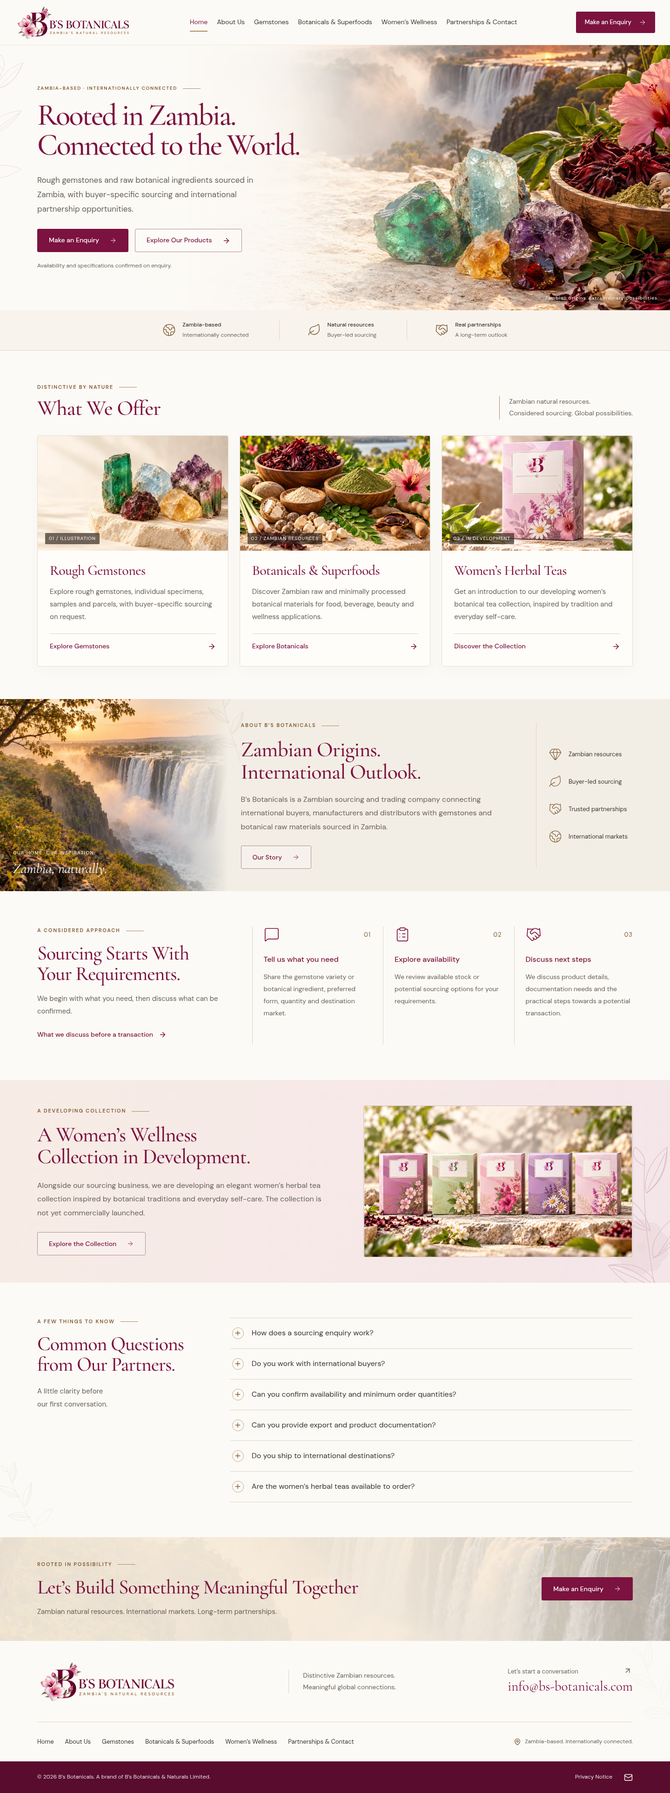
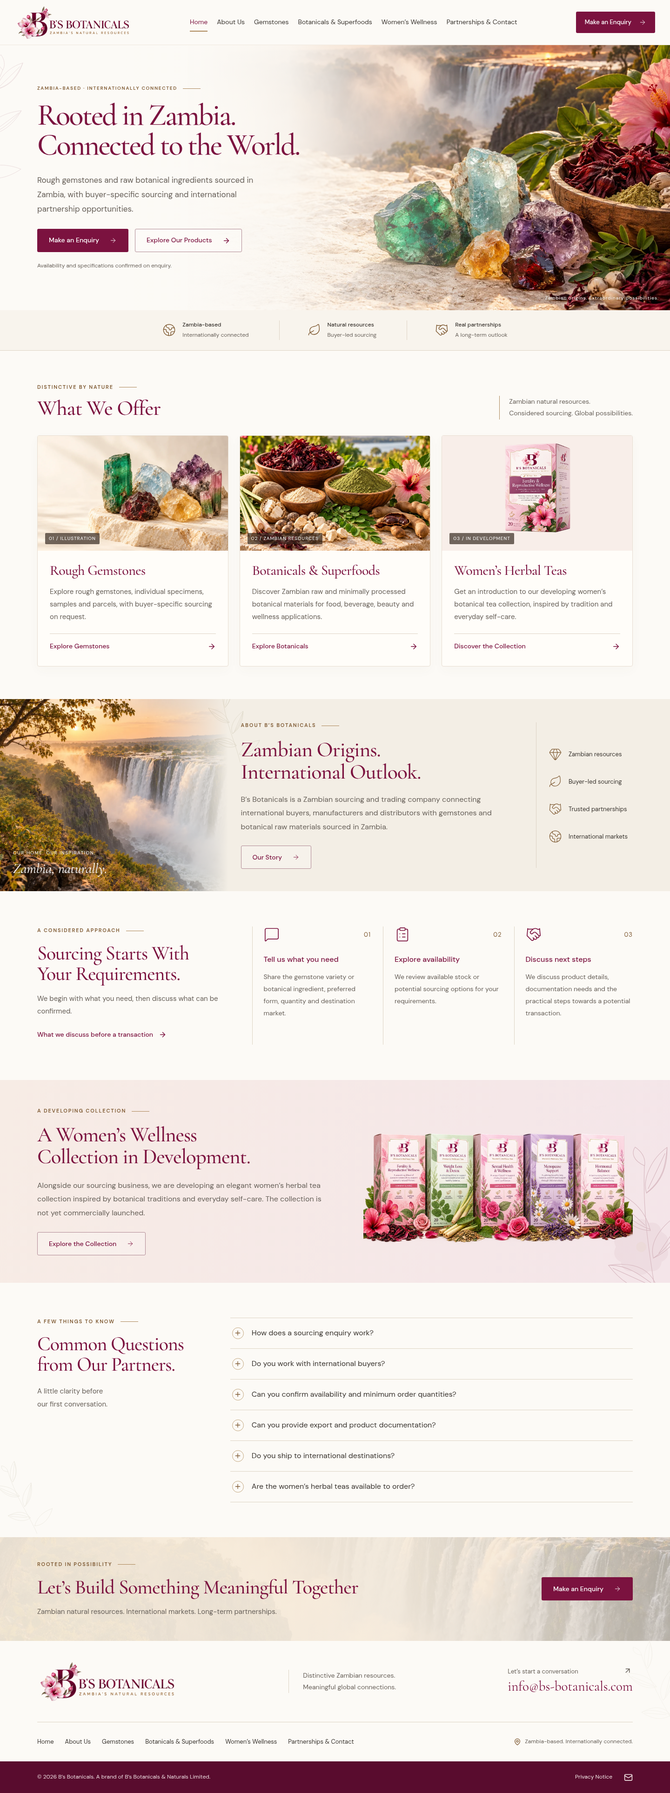
Use supplied labelled tea boxes in individual wellness gallery

Changed region(s): [[0.5312, 0.5914, 0.9688, 0.716], [0.6562, 0.2179, 0.9688, 0.3113]]

diff --git a/src/styles.css b/src/styles.css
@@ -160,7 +160,7 @@ section[id], div[id="enquiry-form"] { scroll-margin-top: 0; }
 .wellness-teaser-art > svg { color: var(--gold-text); height: 46px; width: 46px; margin-bottom: 22px; }
 .wellness-teaser-art > p { font-family: var(--serif); font-size: 33px; line-height: 1.15; color: var(--wine); margin-bottom: 22px; }
 .wellness-teaser-art > img { object-fit: contain; max-height: 310px; }
-.wellness-teaser-art.has-photo { padding: 0; min-height: 0; aspect-ratio: 1672 / 941; border-radius: 4px; overflow: hidden; background: #f4eee5; }
+.wellness-teaser-art.has-photo { padding: 0; min-height: 0; aspect-ratio: 1672 / 941; border: 0; border-radius: 0; background: transparent; }
 .wellness-teaser-art.has-photo > img { width: 100%; height: 100%; max-height: none; object-fit: contain; }
 .status-pill { display: inline-block; border: 1px solid #bf96a5; border-radius: 24px; color: var(--wine); font-size: 11px; letter-spacing: .5px; padding: 6px 13px; line-height: 1.5; }
 
@@ -304,22 +304,17 @@ section[id], div[id="enquiry-form"] { scroll-margin-top: 0; }
 .wellness-story p { font-size: 16px; line-height: 1.9; margin-bottom: 22px; }
 .wellness-story .eyebrow { font-size: 10px; }
 .planned-collection { background: #f8f0eb; padding-block: 65px; }
-.concept-grid { display: grid; grid-template-columns: repeat(5, minmax(0, 1fr)); gap: 22px; }
-.concept-card { text-align: center; min-width: 0; }
-.concept-art { height: 225px; position: relative; overflow: hidden; display: grid; place-items: center; border: 1px solid color-mix(in srgb, var(--concept-color) 40%, transparent); background: color-mix(in srgb, var(--concept-color) 13%, #fcfaf6); border-radius: 3px; }
-.concept-art::before { content: ''; position: absolute; inset: 10px; border: 1px solid color-mix(in srgb, var(--concept-color) 25%, transparent); }
-.concept-art > svg { position: absolute; width: 125px; height: 160px; bottom: -10px; right: -10px; color: var(--concept-color); transform: rotate(-15deg); }
-.concept-number { position: absolute; left: 22px; top: 20px; font-size: 13px; color: #775548; letter-spacing: 1px; }
-.concept-watermark { position: absolute; top: 38px; font-family: var(--serif); font-size: 85px; color: var(--wine); opacity: .7; }
-.concept-card h3 { font-family: var(--serif); font-size: 25px; line-height: 1.1; min-height: 55px; margin: 21px 0 10px; letter-spacing: -.02em; }
+.tea-collection { display: flex; flex-wrap: wrap; justify-content: center; align-items: flex-start; gap: 48px 28px; }
+.tea-product { flex: 0 1 calc((100% - 56px) / 3); min-width: 0; margin: 0; text-align: center; }
+.tea-product-image { display: block; border-radius: 3px; }
+.tea-product-image img { display: block; width: 100%; height: auto; aspect-ratio: 1122 / 1402; object-fit: contain; }
+.tea-product h3 { font-family: var(--serif); font-size: 27px; line-height: 1.15; margin: 20px 0 12px; }
+.tea-package-image { background: #f8eee9; }
+.tea-package-image img { object-fit: contain; padding: 10px 18px 33px; }
 .development-tag { display: inline-block; font-size: 12px; line-height: 1.6; color: #70564f; background: #fcfaf6a6; border: 1px solid #dfd0c9; border-radius: 20px; padding: 4px 11px; }
 .development-notice { max-width: 900px; text-align: center; margin: 42px auto 0; border-top: 1px solid var(--line); padding-top: 28px; }
 .development-notice > span { color: var(--wine); font-size: 12px; font-weight: 500; letter-spacing: 1px; text-transform: uppercase; }
 .development-notice p { font-size: 14px; line-height: 1.9; margin-top: 14px; }
-.approved-collection { margin: 0 auto 40px; max-width: 1000px; }
-.approved-collection img { width: 100%; height: auto; object-fit: contain; border-radius: 4px; }
-.approved-collection a { display: block; }
-.approved-collection figcaption { text-align: center; font-size: 14px; margin-top: 16px; color: var(--muted); }
 .wellness-enquiry { max-width: 800px; padding-block: 65px; text-align: center; }
 .wellness-enquiry > svg { color: var(--gold-text); height: 42px; width: 42px; margin-bottom: 20px; }
 .wellness-enquiry .eyebrow { justify-content: center; }
@@ -449,8 +444,6 @@ section[id], div[id="enquiry-form"] { scroll-margin-top: 0; }
   .product-card h3 { font-size: 32px; }
   .two-column-inner { gap: 40px; }
   .two-column-inner > div + div { padding-left: 32px; }
-  .concept-grid { grid-template-columns: repeat(3, minmax(0, 1fr)); gap: 30px; }
-  .concept-card h3 { min-height: 0; }
   .contact-main { grid-template-columns: 34% 66%; gap: 35px; padding-right: 35px; }
   .enquiry-panel { padding: 30px; }
 }
@@ -496,9 +489,6 @@ section[id], div[id="enquiry-form"] { scroll-margin-top: 0; }
   .two-column-inner { gap: 30px; }
   .two-column-inner > div + div { padding-left: 25px; }
   .wellness-story { grid-template-columns: 1fr; gap: 28px; }
-  .concept-grid { gap: 25px; }
-  .concept-art { height: 210px; }
-  .concept-card h3 { font-size: 26px; }
   .contact-main { grid-template-columns: 1fr; gap: 35px; padding-right: 0; }
   .enquiry-panel { grid-row: 1; padding: 35px; }
   .contact-aside > p:not(.eyebrow) { max-width: 650px; }
@@ -695,13 +685,6 @@ section[id], div[id="enquiry-form"] { scroll-margin-top: 0; }
   .wellness-story .eyebrow { font-size: 10px; letter-spacing: 1px; }
   .wellness-story p { font-size: 16px; line-height: 1.95; }
   .planned-collection { padding-block: 42px; }
-  .concept-grid { grid-template-columns: repeat(2, minmax(0, 1fr)); gap: 28px 18px; }
-  .concept-card:last-child { grid-column: 1/-1; width: calc(50% - 9px); justify-self: center; }
-  .concept-art { height: 180px; }
-  .concept-art > svg { width: 100px; height: 130px; bottom: -5px; }
-  .concept-number { left: 19px; top: 18px; font-size: 12px; }
-  .concept-watermark { font-size: 74px; top: 30px; }
-  .concept-card h3 { font-size: 26px; min-height: 58px; margin-block: 19px 8px; }
   .development-tag { font-size: 11px; padding: 4px 9px; }
   .development-notice { margin-top: 32px; padding-top: 25px; text-align: left; }
   .development-notice > span { font-size: 11px; letter-spacing: .7px; }
@@ -769,13 +752,18 @@ section[id], div[id="enquiry-form"] { scroll-margin-top: 0; }
   .hero-copy .eyebrow { font-size: 8px; }
   .category-copy, .product-card-copy { padding: 21px; }
   .enquiry-panel { padding-inline: 17px; }
-  .concept-grid { gap: 25px 14px; }
-  .concept-art { height: 155px; }
-  .concept-card h3 { font-size: 24px; }
   .development-tag { font-size: 10px; padding-inline: 7px; }
-  .concept-card:last-child { width: calc(50% - 7px); }
 }
 @media (prefers-reduced-motion: reduce) {
   :root { scroll-behavior: auto; }
   *, *::before, *::after { transition: none !important; animation: none !important; scroll-behavior: auto !important; }
+}
+
+@media (max-width: 1024px) {
+  .tea-product { flex-basis: calc((100% - 28px) / 2); }
+}
+@media (max-width: 640px) {
+  .tea-collection { gap: 40px; }
+  .tea-product { flex-basis: 100%; max-width: 420px; }
+  .tea-product h3 { font-size: 28px; }
 }

diff --git a/src/pages/Pages.jsx b/src/pages/Pages.jsx
@@ -1,9 +1,8 @@
 import { useEffect, useState } from 'react';
 import { Link } from 'react-router-dom';
 import { ArrowRight, Gem, Leaf, MessageCircle, Handshake, Globe2 } from 'lucide-react';
-import { Eyebrow, Button, PageHero, PartnershipCTA, BotanicalArt, CollectionCards, BulletList, MiniValues } from '../components/ui';
+import { Eyebrow, Button, PageHero, PartnershipCTA, BotanicalArt, TeaCollection, BulletList, MiniValues } from '../components/ui';
 import ProductPortfolio from '../components/ProductPortfolio';
-import { assets } from '../content/assets';
 
 export function About() {
   return <><PageHero eyebrow="Our roots. Our outlook." title={<>Zambian Origins.<br/>International Outlook.</>} image="zambia"><p>B’s Botanicals is a Zambian sourcing and trading company connecting international buyers, manufacturers and distributors with gemstones and botanical raw materials sourced in Zambia.</p></PageHero>
@@ -40,7 +39,7 @@ export function Botanicals() {
 export function Wellness() {
   return <><section className="wellness-page-hero"><BotanicalArt flower className="wellness-page-flower"/><BotanicalArt flower className="wellness-page-flower-two"/><div className="section-shell"><span className="status-pill">A collection in development</span><Eyebrow>B’s Botanicals · Developing collection</Eyebrow><h1>Women’s Wellness<br/><em>& Support.</em></h1><p>Explore a developing collection of premium women’s herbal teas, inspired by botanical traditions, thoughtful formulation and everyday self-care. The collection is not yet available to purchase.</p><a href="#planned-collection" className="text-link">Discover the creative direction <ArrowRight size={16}/></a></div></section>
     <section className="wellness-story section-shell"><div><Eyebrow>Botanical inspiration. Considered development.</Eyebrow><h2>Thoughtfully Developed.<br/>Beautifully Presented.</h2></div><div><p>Alongside our gemstone and botanical sourcing business, we are developing a women’s herbal tea collection with its own feminine brand identity. Five planned concepts form the creative direction for the range, which has been developed and is being prepared for future launch.</p><p>The collection brings together botanical inspiration, distinct packaging and considered product development. We look forward to introducing the range when final formulations, product names, labels and applicable requirements have been reviewed.</p></div></section>
-    <section className="planned-collection" id="planned-collection"><div className="section-shell"><div className="center-heading"><Eyebrow>The creative direction</Eyebrow><h2>The Five Planned Concepts</h2><p>Inspired by botanical traditions and everyday self-care.</p></div>{assets.teaCollection && <figure className="approved-collection"><a href={assets.teaCollection.src} target="_blank" rel="noopener noreferrer" aria-label="View the packaging concept image at full size (opens in a new tab)"><img src={assets.teaCollection.src} alt={assets.teaCollection.alt} width={assets.teaCollection.width} height={assets.teaCollection.height} loading="lazy" decoding="async"/></a><figcaption>Packaging concepts for a developing collection. Not yet available for purchase.</figcaption></figure>}<CollectionCards large/><div className="development-notice"><span>In development — not yet available for purchase</span><p>The five concepts are preliminary themes, not statements of medical benefit. Final product names, formulations, packaging copy and wellness-related claims are subject to regulatory review before commercial launch.</p></div></div></section>
+    <section className="planned-collection" id="planned-collection"><div className="section-shell"><div className="center-heading"><Eyebrow>The creative direction</Eyebrow><h2>Explore the Tea Collection</h2><p>Discover the five individual packaging concepts. Select a box to view its full label.</p></div><TeaCollection/><div className="development-notice"><span>In development — not yet available for purchase</span><p>The five concepts are preliminary themes, not statements of medical benefit. Final product names, formulations, packaging copy and wellness-related claims are subject to regulatory review before commercial launch.</p></div></div></section>
     <section className="wellness-enquiry section-shell"><Leaf strokeWidth={.7}/><Eyebrow>Looking ahead, together</Eyebrow><h2>Interested in the Collection?</h2><p>We welcome early partnership and distribution enquiries about this developing collection. Please contact us with your market and areas of interest; further product details will be shared when appropriate.</p><Button to="/contact?category=wellness">Enquire About the Collection</Button></section>
   </>;
 }

diff --git a/tests/browser/website.spec.js b/tests/browser/website.spec.js
@@ -110,9 +110,17 @@ test('failed direct delivery preserves the enquiry and never claims it was recei
   await expect(page.getByRole('heading', { name: 'Thank You for Getting in Touch.' })).toHaveCount(0);
 });
 
-test('wellness concepts have development labels and no checkout', async ({ page }) => {
+test('wellness shows the five supplied labelled box images with full-size links and no checkout', async ({ page }) => {
   await page.goto('/womens-wellness');
-  await expect(page.locator('.concept-card')).toHaveCount(5);
+  await expect(page.locator('.tea-product')).toHaveCount(5);
+  await expect(page.locator('.concept-art')).toHaveCount(0);
+  for (const image of await page.locator('.tea-product img').all()) {
+    await image.scrollIntoViewIfNeeded();
+    await expect(image).toHaveAttribute('src', /\/images\/tea-box-(fertility-wellness|weight-loss-detox|sexual-health-wellness|menopause-support|hormonal-balance)\.webp$/);
+    await expect(image.locator('..')).toHaveAttribute('href', await image.getAttribute('src'));
+    await expect(image.locator('..')).toHaveAttribute('target', '_blank');
+    expect(await image.evaluate(img => img.naturalWidth)).toBeGreaterThan(0);
+  }
   await expect(page.locator('.development-tag')).toHaveCount(5);
   await expect(page.getByText('not yet available for purchase', { exact: false })).toBeVisible();
   await expect(page.getByRole('button', { name: /buy|add to cart|checkout/i })).toHaveCount(0);
@@ -240,7 +248,7 @@ test('body copy is readable, actions are tappable and mobile hero enquiry stays 
     const box = await page.locator('.hero-actions .button-primary').boundingBox();
     expect(box.y + box.height).toBeLessThan(page.viewportSize().height);
     await page.goto('/womens-wellness');
-    for (const card of await page.locator('.concept-card').all()) expect((await card.boundingBox()).width).toBeGreaterThanOrEqual(130);
-    expect(await page.locator('.concept-card h3').first().evaluate(element => parseFloat(getComputedStyle(element).fontSize))).toBeGreaterThanOrEqual(24);
+    for (const card of await page.locator('.tea-product').all()) expect((await card.boundingBox()).width).toBeGreaterThanOrEqual(300);
+    expect(await page.locator('.tea-product h3').first().evaluate(element => parseFloat(getComputedStyle(element).fontSize))).toBeGreaterThanOrEqual(24);
   }
 });

diff --git a/src/content/assets.js b/src/content/assets.js
@@ -2,8 +2,15 @@
 // Product photos are keyed by the exact names in src/data.js.
 export const assets = {
   logo: { src: '/images/logo-bs-botanicals-zambia.png', alt: 'B’s Botanicals — Zambia’s Natural Resources', width: 1448, height: 1086 },
-  teaFeature: { src: '/images/tea-box-monogram-garden.webp', alt: 'Pink floral B’s Botanicals tea packaging concept in a garden setting', width: 1448, height: 1086 },
-  teaCollection: { src: '/images/tea-boxes-garden-lineup.webp', alt: 'Five floral B’s Botanicals packaging concepts in pink, green and purple, arranged in a garden', width: 1672, height: 941 },
+  teaFeature: { src: '/images/tea-box-fertility-wellness.webp', alt: 'B’s Botanicals Fertility & Reproductive Wellness tea-box packaging with its printed label', width: 1122, height: 1402 },
+  teaCollection: { src: '/images/tea-boxes-studio-lineup.webp', alt: 'Five B’s Botanicals tea-box packaging concepts with their printed product names', width: 1672, height: 941 },
+  teaProducts: [
+    { name: 'Fertility & Reproductive Wellness', src: '/images/tea-box-fertility-wellness.webp', width: 1122, height: 1402 },
+    { name: 'Weight Loss & Detox', src: '/images/tea-box-weight-loss-detox.webp', width: 1122, height: 1402 },
+    { name: 'Sexual Health & Wellness', src: '/images/tea-box-sexual-health-wellness.webp', width: 1122, height: 1402 },
+    { name: 'Menopause Support', src: '/images/tea-box-menopause-support.webp', width: 1122, height: 1402 },
+    { name: 'Hormonal Balance', src: '/images/tea-box-hormonal-balance.webp', width: 1122, height: 1402 },
+  ],
   hero: { src: '/images/hero.webp', alt: 'Illustrative gemstone and botanical still life' },
   gemstones: { src: '/images/rough-gemstones.webp', alt: 'Illustrative grouping of uncut green, blue, purple and honey-coloured crystals on limestone', width: 1536, height: 1024, illustrative: true },
   botanicals: { src: '/images/botanicals.webp', alt: 'Illustrative arrangement of dried flowers, powders and raw seeds' },

diff --git a/src/components/ui.jsx b/src/components/ui.jsx
@@ -1,7 +1,7 @@
-import { ArrowRight, Globe2, Leaf, Handshake, Gem, Mail, MapPin, Plus, Minus, Sprout, Flower2, Sun } from 'lucide-react';
+import { ArrowRight, Globe2, Leaf, Handshake, Gem, Mail, MapPin, Plus, Minus, Sprout } from 'lucide-react';
 import { Link, useLocation } from 'react-router-dom';
 import { useState } from 'react';
-import { concepts, faqs, navigation } from '../data';
+import { faqs, navigation } from '../data';
 import { assets } from '../content/assets';
 
 export function Button({ to, children, secondary = false, className = '', ...props }) {
@@ -52,14 +52,11 @@ export function FAQ({ compact = false }) {
   </section>;
 }
 
-export function CollectionCards({ large = false }) {
-  return <div className={`concept-grid ${large ? 'concept-grid-large' : ''}`}>{concepts.map(({ name, color, motif }, i) => {
-    const Icon = motif === 'leaf' ? Sprout : motif === 'sun' ? Sun : Flower2;
-    return <article className="concept-card" style={{ '--concept-color': color }} key={name}>
-      <div className="concept-art" aria-hidden="true"><span className="concept-number">0{i + 1}</span><Icon strokeWidth={.6}/><span className="concept-watermark">B</span></div>
-      <h3>{name}</h3><span className="development-tag">In development</span>
-    </article>;
-  })}</div>;
+export function TeaCollection() {
+  return <div className="tea-collection">{assets.teaProducts.map(({ name, src, width, height }) => <figure className="tea-product" key={src}>
+    <a className="tea-product-image" href={src} target="_blank" rel="noopener noreferrer" aria-label={`View ${name} packaging at full size (opens in a new tab)`}><img src={src} alt={`B’s Botanicals ${name} tea-box packaging with its printed label`} width={width} height={height} loading="lazy" decoding="async"/></a>
+    <figcaption><h3>{name}</h3><span className="development-tag">In development</span></figcaption>
+  </figure>)}</div>;
 }
 
 export function ContactDetails() {

diff --git a/src/pages/Home.jsx b/src/pages/Home.jsx
@@ -7,7 +7,7 @@ function Categories() {
   const cards = [
     { path: '/gemstones', title: 'Rough Gemstones', image: assets.gemstones, number: '01', type: 'gemstone-image', description: 'Explore rough gemstones, individual specimens, samples and parcels, with buyer-specific sourcing on request.', action: 'Explore Gemstones' },
     { path: '/botanicals', title: 'Botanicals & Superfoods', image: assets.botanicals, number: '02', description: 'Discover Zambian raw and minimally processed botanical materials for food, beverage, beauty and wellness applications.', action: 'Explore Botanicals' },
-    { path: '/womens-wellness', title: 'Women’s Herbal Teas', image: assets.teaFeature || assets.teaCollection, number: '03', description: 'Get an introduction to our developing women’s botanical tea collection, inspired by tradition and everyday self-care.', action: 'Discover the Collection' },
+    { path: '/womens-wellness', title: 'Women’s Herbal Teas', image: assets.teaFeature || assets.teaCollection, number: '03', type: 'tea-package-image', description: 'Get an introduction to our developing women’s botanical tea collection, inspired by tradition and everyday self-care.', action: 'Discover the Collection' },
   ];
   return <section className="offer-section section-shell" id="our-products"><div className="section-heading"><div><Eyebrow>Distinctive by nature</Eyebrow><h2>What We Offer</h2></div><p>Zambian natural resources.<br/>Considered sourcing. Global possibilities.</p></div><div className="category-grid">
     {cards.map(card => <Link to={card.path} className="category-card" key={card.path}><div className={`category-image ${card.type || ''} ${!card.image ? 'wellness-art' : ''}`}>

diff --git a/src/data.js b/src/data.js
@@ -33,14 +33,6 @@ export const botanicals = [
   ['Ximenia', 'SEEDS & KERNELS', 'Raw seeds and kernels for processors exploring botanical ingredient options.'],
 ];
 
-export const concepts = [
-  { name: 'Hormonal Support', color: '#b77d93', motif: 'flower' },
-  { name: 'Womb Support', color: '#819876', motif: 'leaf' },
-  { name: 'Intimate Support', color: '#c58291', motif: 'flower' },
-  { name: 'Menopause Support', color: '#9681a7', motif: 'sun' },
-  { name: 'Metabolism Support', color: '#bca179', motif: 'leaf' },
-];
-
 export const categories = ['Rough gemstones', 'Botanicals & superfoods', 'Trade or distribution partnership', 'Women’s teas', 'Other'];
 export const categoryMap = { gemstones: categories[0], botanicals: categories[1], partnership: categories[2], wellness: categories[3] };
 

diff --git a/README.md b/README.md
@@ -10,7 +10,7 @@ These are screenshots of the built website, viewable directly on GitHub. The web
 
 [Full desktop screenshot](docs/previews/desktop-full.png) · [Full mobile screenshot](docs/previews/mobile-full.png)
 
-[Gemstone browsing](docs/previews/gemstones.png) · [Botanical browsing](docs/previews/botanicals.png) · [Gemstone banner](docs/previews/gemstone-banner.png) · [Enquiry form](docs/previews/enquiry-form.png) · [Mobile wellness concepts](docs/previews/wellness-mobile.png) · [Supplied tea packaging](docs/previews/wellness-packaging.png)
+[Gemstone browsing](docs/previews/gemstones.png) · [Botanical browsing](docs/previews/botanicals.png) · [Gemstone banner](docs/previews/gemstone-banner.png) · [Enquiry form](docs/previews/enquiry-form.png) · [Mobile tea packaging](docs/previews/wellness-mobile.png) · [Homepage tea packaging](docs/previews/wellness-packaging.png) · [Individual tea boxes](docs/previews/wellness-gallery.png)
 
 ## Interface improvements
 
@@ -21,10 +21,10 @@ These are screenshots of the built website, viewable directly on GitHub. The web
 - Individual generated illustrations for six rough gemstone varieties and eight raw botanical ingredients, plus a dedicated gemstone banner. Visible labels distinguish the artwork from actual stock photography.
 - Product-specific enquiry links that go straight to a prefilled form, with a visible product summary.
 - Inline form validation, keyboard focus management, duplicate-send prevention and an email fallback when direct delivery fails.
-- A mobile menu with focus containment, Escape dismissal and scroll restoration; wellness concepts use readable two-column cards on phones.
+- A mobile menu with focus containment, Escape dismissal and scroll restoration; individual tea-box images display in a spacious gallery, with one full-width box per row on phones and links to the full-size artwork.
 - A sourcing-information section explaining availability, documentation and delivery discussions without adding unverified claims.
 
-Your supplied floral logo is now used in the header and footer. The supplied single-box garden image appears in the home category card; the five-box garden lineup appears in the home wellness feature and Wellness page. The collection remains clearly in development. Genuine sourcing photographs can still replace the illustrative gemstone and botanical artwork. Direct email delivery still requires real email settings and a reviewed Privacy Notice. See [asset handoff instructions](docs/ASSET_HANDOFF.md).
+Your supplied floral logo is now used in the header and footer. The supplied labelled Fertility & Reproductive Wellness box appears in the home category; the labelled studio lineup appears in the home wellness feature. The Wellness page shows all five original individual tea-box images with their printed text, replacing the earlier vector cards and unlabelled garden artwork. The collection remains clearly in development. Genuine sourcing photographs can still replace the illustrative gemstone and botanical artwork. Direct email delivery still requires real email settings and a reviewed Privacy Notice. See [asset handoff instructions](docs/ASSET_HANDOFF.md).
 
 ## Run locally
 
@@ -44,7 +44,7 @@ npm test            # API validation, origin checks, gating, failure and rate-li
 npm run test:e2e    # Desktop/mobile browser and automated accessibility checks
 ```
 
-The API and enquiry workflows were previously verified with seven API tests and 34 desktop/mobile browser tests against the production server. For the current image update, the production build and 14 relevant desktop/mobile browser checks passed, covering asset loading, navigation, product enquiries, search, ingredient filters, readable layouts and automated WCAG accessibility checks on all seven routes. Additional responsive image checks cover the Home, Gemstones and Botanicals pages at 320, 390, 640, 768, 1024 and 1440px widths. Real inbox delivery remains unverified.
+The API and enquiry workflows were previously verified with seven API tests and 34 desktop/mobile browser tests against the production server. For the labelled packaging update, the production build and eight relevant desktop/mobile browser checks passed, covering asset loading, the five original individual boxes and full-size links, readable layouts and automated WCAG checks across all seven routes. Twelve additional responsive checks covered Home and Wellness at 320, 390, 640, 768, 1024 and 1440px widths. Installed tea files were compared byte-for-byte with the supplied archive. Real inbox delivery remains unverified.
 
 Set `PLAYWRIGHT_BASE_URL` to a running production server to exercise that build; otherwise browser tests start or reuse the Vite development server.
 
@@ -58,7 +58,7 @@ Browser tests use the installed `/usr/bin/chromium`. On another machine, set `CH
 | `/about` | Company story and approach to business |
 | `/gemstones` | Six searchable rough gemstone sourcing interests and other Zambian gemstones |
 | `/botanicals` | Eight searchable raw botanical sourcing categories, ingredient-group filters, forms and applications |
-| `/womens-wellness` | Five planned concepts, all clearly in development |
+| `/womens-wellness` | Five individual labelled tea-box images, all clearly in development |
 | `/contact` | Four required fields, optional commercial details and direct contact information |
 | `/privacy` | Honest preview information; displays the reviewed notice when one is configured |
 
@@ -80,10 +80,10 @@ The server validates fields, limits request size, checks the browser origin, rat
 
 ## Launch items still requiring owner input
 
-- **Logo and packaging:** supplied assets from `images.zip` are installed. The original logo and selected garden packaging images are preserved unchanged; the final concept wording and packaging remain part of the pre-launch review.
+- **Logo and packaging:** supplied assets from `images.zip` are installed. The original logo and labelled packaging images are preserved unchanged; the final concept wording and packaging remain part of the pre-launch review.
 - **Prior conversations:** the linked conversation-reading tool was unavailable in this session. Implementation uses the uploaded PDF and the three visible visual references; assets from those threads could not be recovered.
 - **Founder names:** the PDF marks public display as pending confirmation. The About page contains the company story without publishing unconfirmed personal details.
-- **Tea wording:** the five concepts use the revised PDF labels, carry development notices, and make no medical or efficacy promises. Obtain the indicated review before public release.
+- **Tea wording:** the gallery uses the original printed packaging names from the supplied ZIP, following the owner’s request. Development notices remain visible; final packaging copy and formulations remain subject to the existing pre-launch review.
 - **Privacy and direct mail:** activate only through the tested configuration above. The preview notice is not presented as a reviewed legal policy.
 - **Deployment:** domain/DNS, HTTPS, hosting and real mail delivery have not been configured or verified. The website is created and tested locally, not publicly deployed.
 - **Search indexing:** this unpublished preview deliberately has site-wide `noindex, nofollow` in `index.html` and `Disallow: /` in `public/robots.txt`. After content and legal approval, remove both preview restrictions, make the owner’s indexing decision for Women’s Wellness, and add the final domain’s canonical/social image URLs and sitemap.
@@ -91,12 +91,12 @@ The server validates fields, limits request size, checks the browser origin, rat
 ## Editing and assets
 
 - `src/pages/`: page layouts and content.
-- `src/data.js`: navigation, product lists, FAQs, concepts and search metadata.
+- `src/data.js`: navigation, product lists, FAQs and search metadata.
 - `src/content/assets.js`: central registry for replacing illustrative artwork with approved assets.
 - `src/components/ProductPortfolio.jsx`: search, filters, product illustrations and prefilled enquiry links.
 - `src/components/ui.jsx`: reusable identity, decorations, buttons and shared sections.
 - `src/styles.css`: design system and responsive layouts.
-- `public/images/`: supplied logo and garden packaging artwork, plus illustrative sourcing images; see `ASSETS.md` for provenance.
+- `public/images/`: supplied logo and labelled tea packaging artwork, plus illustrative sourcing images; see `ASSETS.md` for provenance.
 - `server/`: optional API and production static server.
 - `tests/`: API and browser coverage.
 

diff --git a/ASSETS.md b/ASSETS.md
@@ -10,7 +10,7 @@ The gemstone, botanical and Zambia landscape images were generated for this proj
 
 Original generated PNGs remain in `/workspace/generated_images`; website versions are WebP encodings for bandwidth efficiency. They do not reproduce the inaccessible assets from the linked ChatGPT threads exactly.
 
-The SVG botanical line art and monogram favicon are custom code. The supplied floral logo now replaces the reconstructed identity in the header and footer. The five wellness panels remain decorative illustrations of the revised planned concepts; supplied garden packaging artwork is shown separately without changing those concept names.
+The SVG botanical line art and monogram favicon are custom code. The supplied floral logo now replaces the reconstructed identity in the header and footer. The wellness gallery uses the five supplied individual packaging images with their original printed text. The earlier vector concept panels and unlabelled garden packaging images have been replaced at the owner’s request.
 
 Cormorant Garamond and DM Sans are bundled from Fontsource, with their licences retained in the corresponding npm packages. Lucide icons are provided by `lucide-react` under the ISC licence. Dependencies and their versions are recorded in `package-lock.json`.
 
@@ -20,7 +20,7 @@ Product browsing uses individual generated still-life illustrations, with the cu
 
 Fifteen additional images were generated on 23 October 2026: six rough gemstone studies, eight raw botanical studies and one dedicated rough-gemstone banner. The shared visual treatment uses warm ivory limestone, diffuse daylight and restrained colour. Optimized WebP files retain the generated 1536 × 1024 resolution. Product images load lazily and reserve their display space to avoid layout shifts.
 
-These are generated illustrative compositions, with visible labels on the product cards, Gemstones hero and Home gemstone category. They do not identify actual specimens, establish botanical morphology, represent stock or prove source. In particular, the seed and kernel studies are artistic representations, not identification guides. Original supplier photographs can replace them through the asset registry. The supplied logo and tea packaging files are unchanged.
+These are generated illustrative compositions, with visible labels on the product cards, Gemstones hero and Home gemstone category. They do not identify actual specimens, establish botanical morphology, represent stock or prove source. In particular, the seed and kernel studies are artistic representations, not identification guides. Original supplier photographs can replace them through the asset registry. The supplied logo and installed tea packaging files retain their original file contents.
 
 | Website file | Source generated file | Placement |
 | --- | --- | --- |
@@ -45,9 +45,13 @@ These are generated illustrative compositions, with visible labels on the produc
 | Website file | Placement |
 | --- | --- |
 | `public/images/logo-bs-botanicals-zambia.png` | Header and footer |
-| `public/images/tea-box-monogram-garden.webp` | Home women’s herbal tea category card |
-| `public/images/tea-boxes-garden-lineup.webp` | Home wellness feature and Wellness collection figure |
+| `public/images/tea-box-fertility-wellness.webp` | Home tea category and Wellness gallery |
+| `public/images/tea-box-weight-loss-detox.webp` | Wellness gallery |
+| `public/images/tea-box-sexual-health-wellness.webp` | Wellness gallery |
+| `public/images/tea-box-menopause-support.webp` | Wellness gallery |
+| `public/images/tea-box-hormonal-balance.webp` | Wellness gallery |
+| `public/images/tea-boxes-studio-lineup.webp` | Home wellness feature |
 
-All three are byte-for-byte copies of the supplied archive files. The logo's generous transparent canvas is framed through CSS only, without redrawing or changing the original image. The supplied WebP versions are reused without additional lossy conversion. PNG duplicates and macOS metadata are not included in the website payload.
+All seven files are byte-for-byte copies of the supplied archive files. The original printed artwork and transparency are preserved, with no redrawing or additional lossy conversion. The individual boxes display fully using `object-fit: contain` and link to their original website image for reading the printed labels. The gallery captions match the names printed on these images rather than the earlier placeholder concepts.
 
-The garden images were selected for their consistent visual style and compatibility with the revised developing-collection wording. The alternate individual boxes and studio lineup contain different names and printed benefit or sourcing statements; they have not replaced the revised concept names or been added as product listings. All source variants remain in the original uploaded archive.
+The previously selected unlabelled garden packaging files are no longer used or shipped. All variants remain in the original uploaded archive. The logo’s transparent canvas is framed through CSS only. The collection remains in development, with the existing pre-launch qualifications retained around the supplied artwork.

diff --git a/docs/ASSET_HANDOFF.md b/docs/ASSET_HANDOFF.md
@@ -1,6 +1,6 @@
 # Replacing the illustrative artwork with original assets
 
-The supplied floral logo and two garden packaging images from `images.zip` are installed. Their original files are preserved unchanged. The six gemstone and eight botanical cards now have individual generated still-life illustrations. A dedicated rough-gemstone composition appears on the Gemstones hero and homepage category card. These images carry visible illustration labels and do not establish inventory or botanical/mineral identity. The instructions below apply to future original gemstone, botanical and company photographs, or replacement brand assets.
+The supplied floral logo, five labelled individual tea boxes and labelled studio lineup from `images.zip` are installed. Their original files are preserved unchanged. The six gemstone and eight botanical cards now have individual generated still-life illustrations. A dedicated rough-gemstone composition appears on the Gemstones hero and homepage category card. These images carry visible illustration labels and do not establish inventory or botanical/mineral identity. The instructions below apply to future original gemstone, botanical and company photographs, or replacement brand assets.
 
 ## Additional or replacement assets
 
@@ -19,7 +19,7 @@ Supply the product name for each photograph and any required credit. Do not infe
 
 1. Put optimized website copies in `public/images/`, retaining the original high-resolution files separately.
 2. Edit `src/content/assets.js`. Entries accept `{ src, alt, width, height }`; use the actual intrinsic dimensions. The `gemstones` entry controls the dedicated Gemstones banner and homepage category image; `hero`, `botanicals` and `zambia` control the other sourcing compositions.
-The single-box home category image is configured by `teaFeature`; the five-box home and Wellness image is configured by `teaCollection`.
+The single-box home category image is configured by `teaFeature`; the five-box home feature is configured by `teaCollection`. The individual Wellness images and their printed names are configured by `teaProducts`.
 
 3. Add individual photos to `products`, using exact product names from `src/data.js`, for example:
 
@@ -35,7 +35,7 @@ products: {
 }
 ```
 
-4. Product cards automatically show the supplied photograph in place of their illustration. Set `illustrative: true` for generated or drawn artwork so its label remains visible; use `false` only for an appropriate original photograph. Keep the main subject comfortably inside the frame, since cards use a wide crop. A supplied logo replaces the reconstructed identity in both header and footer. The two supplied tea images remain in the home category, home teaser and Wellness page; the development qualifications remain visible.
+4. Product cards automatically show the supplied photograph in place of their illustration. Set `illustrative: true` for generated or drawn artwork so its label remains visible; use `false` only for an appropriate original photograph. Keep the main subject comfortably inside the frame, since cards use a wide crop. A supplied logo replaces the reconstructed identity in both header and footer. The supplied labelled tea images appear in the home category, home teaser and individual Wellness gallery; the development qualifications remain visible.
 5. Check image framing on phones, tablets and desktop before updating the GitHub screenshots. If the hero path changes, update the image preload in `index.html` too.
 
 Public founder details and photographs still require confirmation before adding them. The site’s credibility improvements currently use the approved company story and practical sourcing information, without publishing pending personal details or unsupported badges.
